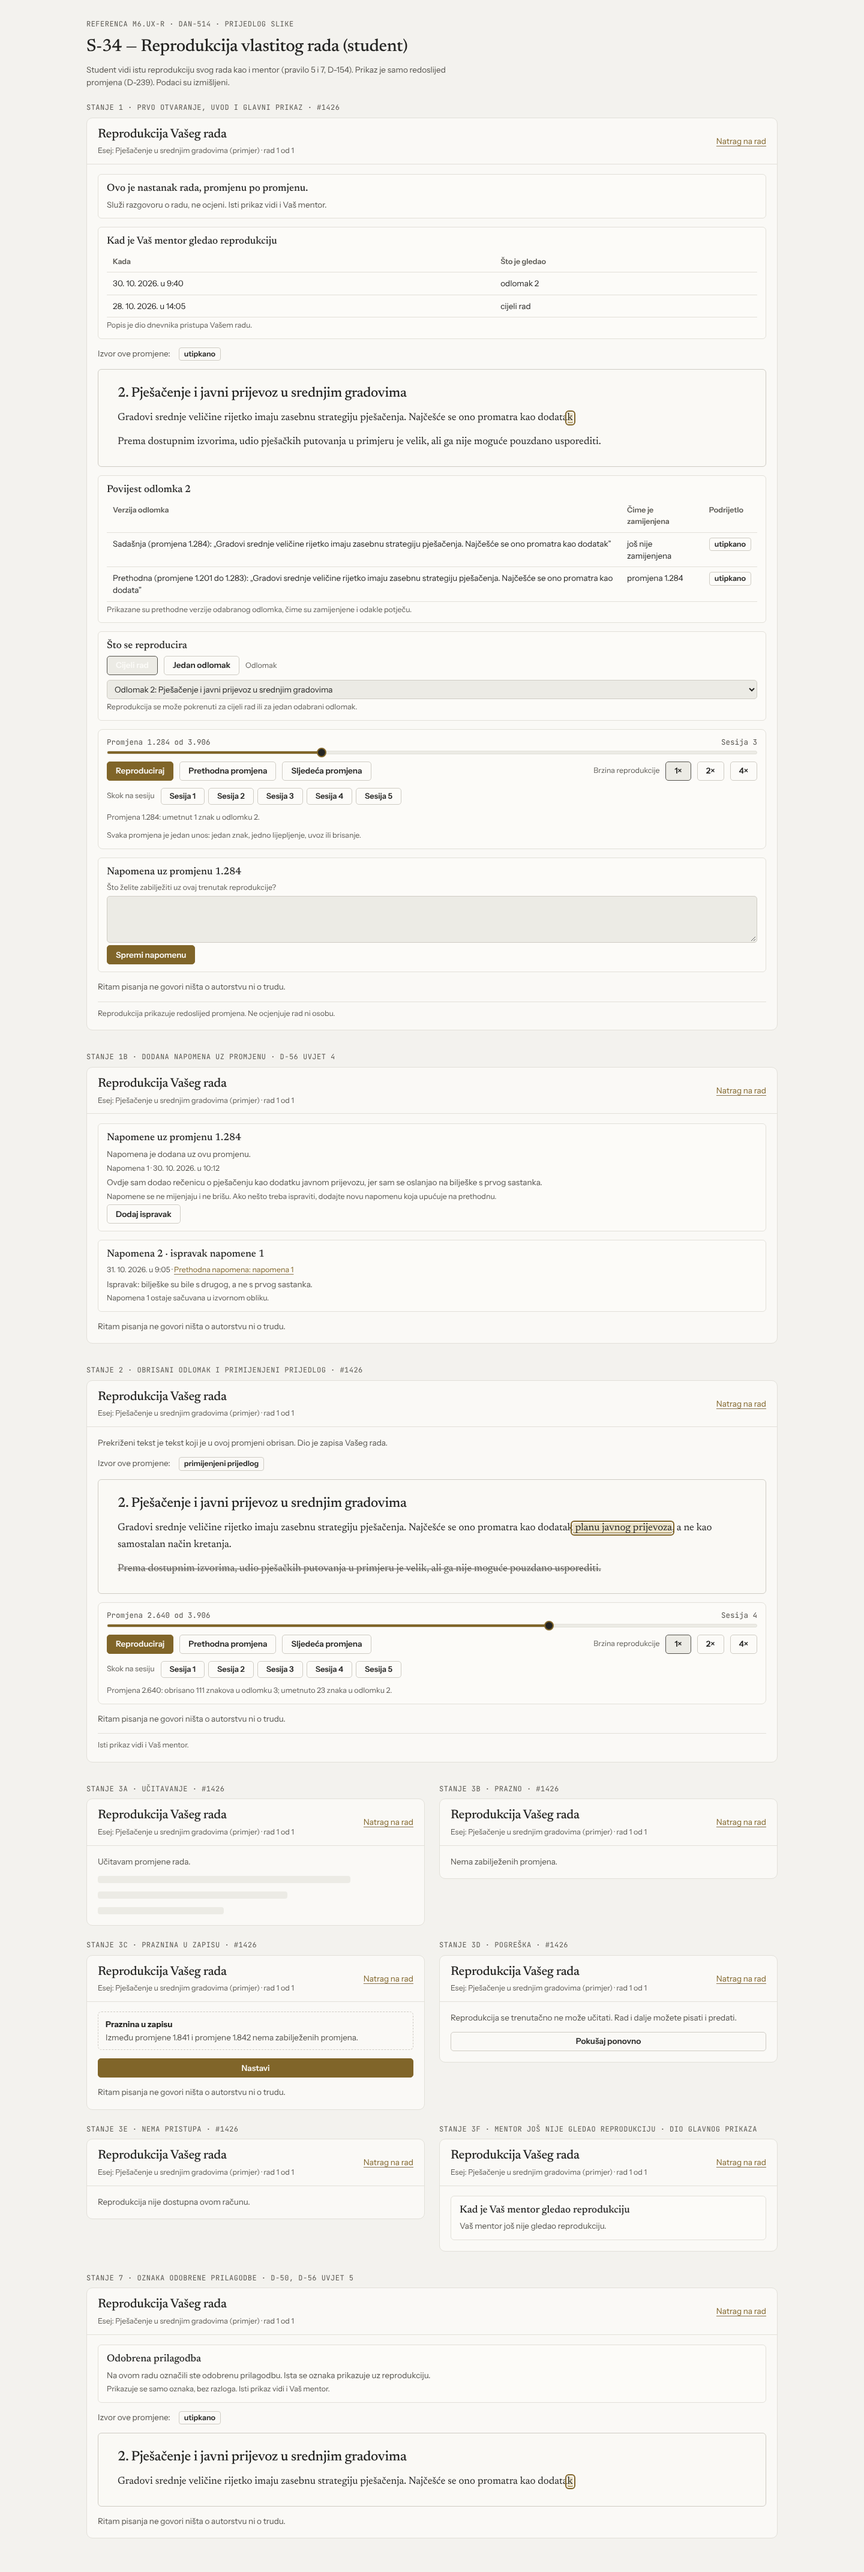
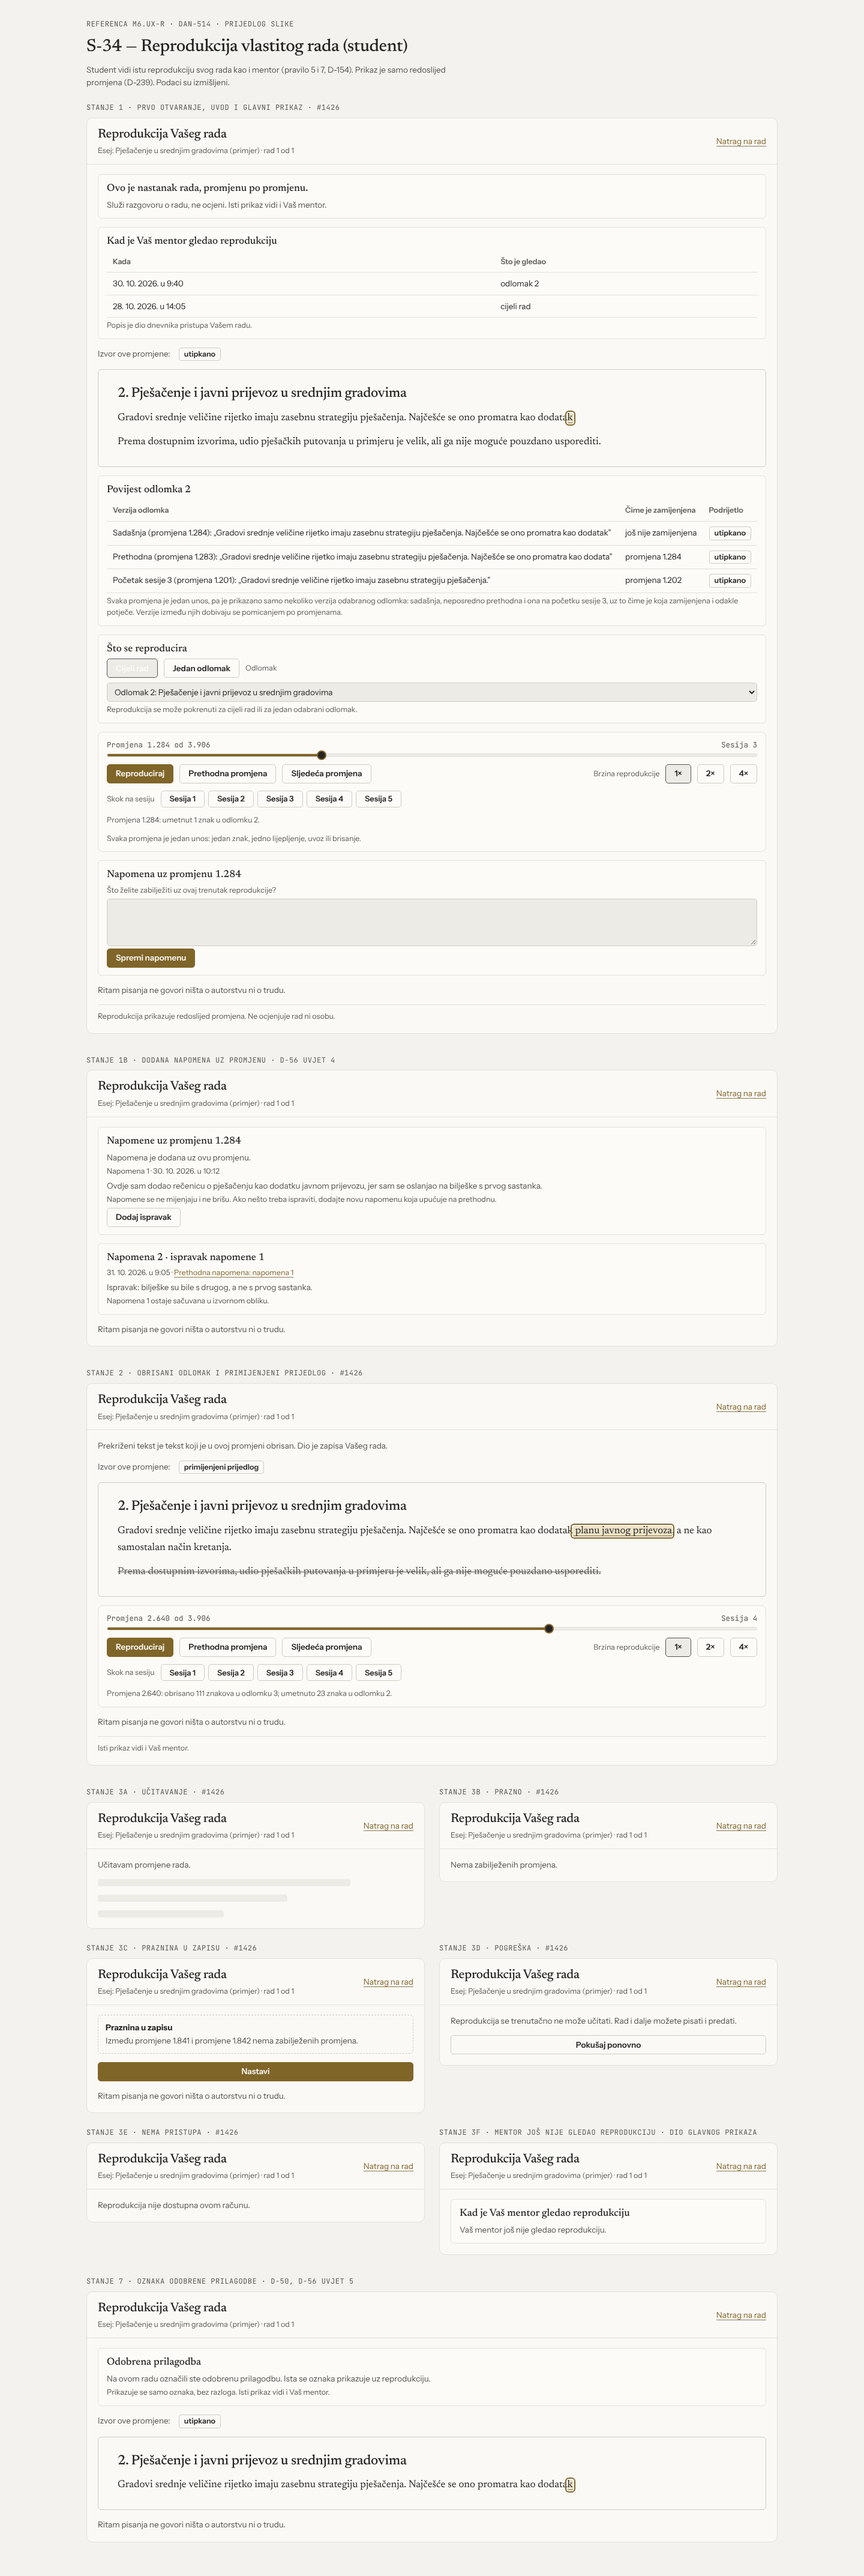
docs: align paragraph history with the change 1.201 view in M6 replay references (DAN-514)
Claude-Session: https://claude.ai/code/session_01N1HowTgT6zJrTkthCDY5PD

diff --git a/docs/design/ductura/m6-reference/n09-reprodukcija-nastavnik.html b/docs/design/ductura/m6-reference/n09-reprodukcija-nastavnik.html
@@ -29,9 +29,10 @@
           <p id="h-phn">Povijest odlomka 2</p>
           <table class="table-src"><thead><tr><th scope="col">Verzija odlomka</th><th scope="col">Čime je zamijenjena</th><th scope="col">Podrijetlo</th></tr></thead><tbody>
             <tr><td>Sadašnja (promjena 1.284): „Gradovi srednje veličine rijetko imaju zasebnu strategiju pješačenja. Najčešće se ono promatra kao dodatak”</td><td>još nije zamijenjena</td><td><span class="src-tag">utipkano</span></td></tr>
-            <tr><td>Prethodna (promjene 1.201 do 1.283): „Gradovi srednje veličine rijetko imaju zasebnu strategiju pješačenja. Najčešće se ono promatra kao dodata”</td><td>promjena 1.284</td><td><span class="src-tag">utipkano</span></td></tr>
+            <tr><td>Prethodna (promjena 1.283): „Gradovi srednje veličine rijetko imaju zasebnu strategiju pješačenja. Najčešće se ono promatra kao dodata”</td><td>promjena 1.284</td><td><span class="src-tag">utipkano</span></td></tr>
+            <tr><td>Početak sesije 3 (promjena 1.201): „Gradovi srednje veličine rijetko imaju zasebnu strategiju pješačenja.”</td><td>promjena 1.202</td><td><span class="src-tag">utipkano</span></td></tr>
           </tbody></table>
-          <p class="meta">Prikazane su prethodne verzije odabranog odlomka, čime su zamijenjene i odakle potječu.</p>
+          <p class="meta">Svaka promjena je jedan unos, pa je prikazano samo nekoliko verzija odabranog odlomka: sadašnja, neposredno prethodna i ona na početku sesije 3, uz to čime je koja zamijenjena i odakle potječe. Verzije između njih dobivaju se pomicanjem po promjenama.</p>
         </div>
         <div class="intro" role="group" aria-labelledby="h-opseg">
           <p id="h-opseg">Što se reproducira</p>

diff --git a/docs/design/ductura/m6-reference/s34-reprodukcija-student.html b/docs/design/ductura/m6-reference/s34-reprodukcija-student.html
@@ -37,9 +37,10 @@
           <p id="h-phs">Povijest odlomka 2</p>
           <table class="table-src"><thead><tr><th scope="col">Verzija odlomka</th><th scope="col">Čime je zamijenjena</th><th scope="col">Podrijetlo</th></tr></thead><tbody>
             <tr><td>Sadašnja (promjena 1.284): „Gradovi srednje veličine rijetko imaju zasebnu strategiju pješačenja. Najčešće se ono promatra kao dodatak”</td><td>još nije zamijenjena</td><td><span class="src-tag">utipkano</span></td></tr>
-            <tr><td>Prethodna (promjene 1.201 do 1.283): „Gradovi srednje veličine rijetko imaju zasebnu strategiju pješačenja. Najčešće se ono promatra kao dodata”</td><td>promjena 1.284</td><td><span class="src-tag">utipkano</span></td></tr>
+            <tr><td>Prethodna (promjena 1.283): „Gradovi srednje veličine rijetko imaju zasebnu strategiju pješačenja. Najčešće se ono promatra kao dodata”</td><td>promjena 1.284</td><td><span class="src-tag">utipkano</span></td></tr>
+            <tr><td>Početak sesije 3 (promjena 1.201): „Gradovi srednje veličine rijetko imaju zasebnu strategiju pješačenja.”</td><td>promjena 1.202</td><td><span class="src-tag">utipkano</span></td></tr>
           </tbody></table>
-          <p class="meta">Prikazane su prethodne verzije odabranog odlomka, čime su zamijenjene i odakle potječu.</p>
+          <p class="meta">Svaka promjena je jedan unos, pa je prikazano samo nekoliko verzija odabranog odlomka: sadašnja, neposredno prethodna i ona na početku sesije 3, uz to čime je koja zamijenjena i odakle potječe. Verzije između njih dobivaju se pomicanjem po promjenama.</p>
         </div>
         <div class="intro" role="group" aria-labelledby="h-opseg">
           <p id="h-opseg">Što se reproducira</p>

diff --git a/docs/design/ductura/m6-reference/README.md b/docs/design/ductura/m6-reference/README.md
@@ -30,7 +30,7 @@ Opseg M6.UX-R po odluci orkestratora (#1091): PR 1 M6.2 (S-34, N-09); PR 2 M6.3/
 | smanjeno kretanje | korak po koraku bez animacije; tipkovnica: razmaknica, strelice |
 | mentorovo gledanje (S-34) | u glavnom prikazu blok „Kad je Vaš mentor gledao reprodukciju”: datum i vrijeme svakog otvaranja i opseg (cijeli rad ili odlomak), bez trajanja; popis je dio dnevnika pristupa (`docs/PRODUCT.md` §6, D-56 uvjet 4, pravilo 17, D-150); stanje 3f „Vaš mentor još nije gledao reprodukciju.” |
 | napomena uz promjenu (S-34) | u glavnom prikazu unos „Napomena uz promjenu 1.284” s gumbom „Spremi napomenu”; stanje 1b prikazuje spremljenu napomenu bez uređivanja i brisanja (`docs/PRODUCT.md` §6: napomene se samo dodaju); ispravak je nova napomena s vezom na prethodnu, koja ostaje sačuvana (D-56 uvjet 4); napomena je vezana uz broj promjene, bez trajanja |
-| povijest odlomka (N-09, S-34) | u glavnom prikazu tablica „Povijest odlomka 2”: prethodne verzije odlomka, čime su zamijenjene i podrijetlo (oznaka izvora); ista za obje uloge (D-56 uvjet 6) |
+| povijest odlomka (N-09, S-34) | u glavnom prikazu tablica „Povijest odlomka 2”: sadašnja verzija, neposredno prethodna (promjena 1.283) i ona na početku sesije 3 (promjena 1.201, ista kao u prikazu skoka na sesiju 3), uz to čime je koja zamijenjena i podrijetlo (oznaka izvora); svaka promjena je jedan unos, pa se verzije između dobivaju pomicanjem po promjenama; ista za obje uloge (D-56 uvjet 6) |
 | oznaka prilagodbe (N-09, S-34) | stanje 7: uz reprodukciju stoji oznaka „Odobrena prilagodba”, samo oznaka bez razloga; student vidi „Na ovom radu označili ste odobrenu prilagodbu.”, mentor i nastavnik „Student je na ovom radu označio odobrenu prilagodbu.” (D-50, D-56 uvjet 5) |
 | stalni tekst | „Ritam pisanja ne govori ništa o autorstvu ni o trudu.” (`docs/PRODUCT.md` §6) u svakom stanju s reprodukcijom, uključujući prazninu u zapisu i veliki rad |
 
